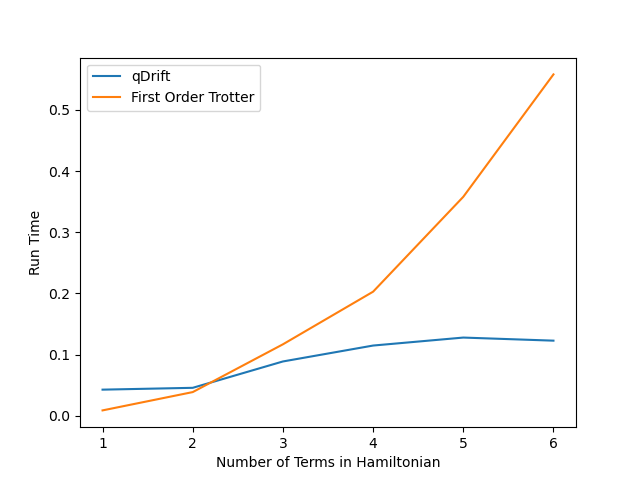
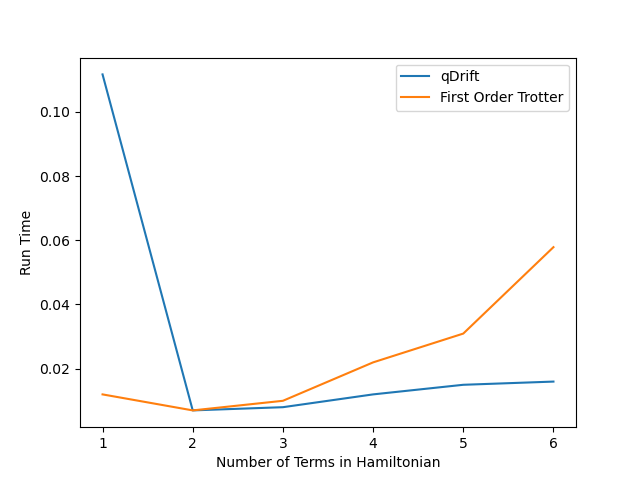
Added some more graphs and documentation

diff --git a/host.py b/host.py
@@ -3,6 +3,7 @@ import numpy as np
 import random
 import math
 import time
+import sys
 import matplotlib.pyplot as plt
 from Operations import sim_ham
 
@@ -79,14 +80,22 @@ H2Terms = [
             [0, 0], [3, 0], [0, 3], [3, 3], [2, 2], [1, 1]
         ]
 
+
+
 # Implementation of qDRIFT protocal to contruct simulation circuit from Campbell paper        
 def qDrift(bond_ind, sim_time, e_prec, num_terms = 6):
+
+    # Aquiring Hamiltonian coefficients for given bond_length
     H_coeffs = H2Coeff[bond_ind].copy()
     H_coeffs.insert(0, H2IdentityCoeff[bond_ind])
     H_coeffs = H_coeffs[0:num_terms]
-    coeff_sum = np.sum(np.abs(H_coeffs))
 
+    #Calculating time step to achieve desired precision
+    coeff_sum = np.sum(np.abs(H_coeffs))
     N = np.ceil((2 * (coeff_sum ** 2) * (sim_time**2))/e_prec)
+
+    # Creating list of gate indicies and respective gate strength in the order
+    # they are to be applied in q#
     V = []
     H_probs = np.abs(np.array(H_coeffs)/coeff_sum)
     for _ in range(int(N)):
@@ -96,74 +105,190 @@ def qDrift(bond_ind, sim_time, e_prec, num_terms = 6):
 
 # Implementation of First-Order Trotter-Suzuki compilation of simulation circuit
 def first_order_trot_suzuki(bond_ind, sim_time, e_prec, num_terms = 6):
+
+    # Aquiring Hamiltonian coefficients for given bond_length
     H_coeffs = H2Coeff[bond_ind].copy()
     H_coeffs.insert(0, H2IdentityCoeff[bond_ind])
     H_coeffs = H_coeffs[:num_terms]
 
+    #Calculating time_step to achieve desired precision
     m_lambda = np.max(np.abs(H_coeffs))
     r = np.ceil((num_terms**2 * m_lambda**2 * sim_time**2)/(2*e_prec))
     r = int(r)
+
+    # Creating list of gate indicies and respective gate strength in the order
+    # they are to be applied in q#
     V = []
     for _ in range(r):
         for i in range(num_terms):
             V.append((i, H_coeffs[i]))
     return (V, r)
 
-# Simulation Parameters
-sim_time = 1
-bond_idx = 2
+arg_list = sys.argv[1:]
 
-# Lists to hold simulation data
-log_e_dom = []
-trot_times = []
-rand_times = []
+if len(arg_list) < 1:
+    print("Usage: host.py [Test #]")
 
-# Running Simulation with both Trotter and qDrift for various levels of precision
-for i in np.arange(0, 2, .05):
-    e_prec = 10.0**(-1*i)
-    rand_start = time.time()
-    V, r = qDrift(bond_idx, sim_time, e_prec)
-    sim_ham.simulate(ham_idx_strength = V, step_int = r, sim_time = 1.0)
-    rand_end = time.time()
-    trot_start = time.time()
-    V, r = first_order_trot_suzuki(bond_idx, sim_time, e_prec)
-    sim_ham.simulate(ham_idx_strength = V, step_int = r, sim_time = 1.0)
-    trot_end = time.time()
-    log_e_dom.append(i)
-    trot_times.append(trot_end-trot_start)
-    rand_times.append(rand_end-rand_start)
+elif int(arg_list[0]) == 0:
+    # Simulation Parameters
+    sim_time = 1
+    bond_idx = random.choice(range(len(H2Coeff)))
 
-plt.plot(log_e_dom, rand_times, label='qDrift')
-plt.plot(log_e_dom, trot_times, label='First Order Trotter')
-plt.xlabel("-Log10 Precision")
-plt.ylabel("Run Time")
-plt.legend()
-plt.savefig("e_precision_comp.png")
-plt.show()
+    # Domain of Log precision values to use
+    log_e_dom = np.arange(0, 2, .05)
+
+    # Lists to hold simulation time data
+    trot_times = []
+    rand_times = []
+
+    # List to hold number of gates used
+    trot_gates = []
+    qdrift_gates = []
+
+    # Running Simulation with both Trotter and qDrift for various levels of precision
+    # and recording time it takes each protocal to run
+    for i in log_e_dom:
+        e_prec = 10.0**(-1*i)
+        rand_start = time.time()
+        V, r = qDrift(bond_idx, sim_time, e_prec)
+        sim_ham.simulate(ham_idx_strength = V, step_int = r, sim_time = 1.0)
+        rand_end = time.time()
+        qdrift_gates.append(len(V))
+        trot_start = time.time()
+        V, r = first_order_trot_suzuki(bond_idx, sim_time, e_prec)
+        sim_ham.simulate(ham_idx_strength = V, step_int = r, sim_time = 1.0)
+        trot_end = time.time()
+        trot_gates.append(len(V))
+        trot_times.append(trot_end-trot_start)
+        rand_times.append(rand_end-rand_start)
+
+    # Plotting result of run time for each protocal against the precision value used
+    # in that run
+    plt.plot(log_e_dom, rand_times, label='qDrift')
+    plt.plot(log_e_dom, trot_times, label='First Order Trotter')
+    plt.xlabel("-Log10 Precision")
+    plt.ylabel("Number of Gates")
+    plt.title("Precision Comparison (time)")
+    plt.legend()
+    plt.savefig("e_precision_time_comp.png")
+    plt.show()
+
+    # Plotting result of run time for each protocal against the precision value used
+    # in that run
+    plt.plot(log_e_dom, qdrift_gates, label='qDrift')
+    plt.plot(log_e_dom, trot_gates, label='First Order Trotter')
+    plt.xlabel("-Log10 Precision")
+    plt.ylabel("Number of Gates")
+    plt.title("Precision Comparison (gates)")
+    plt.legend()
+    plt.savefig("e_precision_gates_comp.png")
+    plt.show()
+
+elif int(arg_list[0]) == 1:
+    # Simulation Parameters
+    sim_time = 1
+    bond_idx = random.choice(range(len(H2Coeff)))
+
+    # Domain of number of terms in hamiltonian to use
+    num_terms_dom = [1,2,3,4,5,6]
+
+    # Lists to hold simulation time data
+    trot_times = []
+    rand_times = []
+
+    # List to hold number of gates used
+    trot_gates = []
+    qdrift_gates = []
+
+    # Running Simulation with both Trotter and qDrift for various numbers of terms in Hamiltonian
+    # and recording the time it takes each protocal to run
+    for i in num_terms_dom:
+        e_prec = 0.1
+        rand_start = time.time()
+        V, r = qDrift(bond_idx, sim_time, e_prec, num_terms=i)
+        sim_ham.simulate(ham_idx_strength = V, step_int = r, sim_time = 1.0)
+        rand_end = time.time()
+        qdrift_gates.append(len(V))
+        trot_start = time.time()
+        V, r = first_order_trot_suzuki(bond_idx, sim_time, e_prec, num_terms=i)
+        sim_ham.simulate(ham_idx_strength = V, step_int = r, sim_time = 1.0)
+        trot_end = time.time()
+        trot_gates.append(len(V))
+        trot_times.append(trot_end-trot_start)
+        rand_times.append(rand_end-rand_start)
 
 
-num_terms_dom = [1,2,3,4,5,6]
-trot_times = []
-rand_times = []
+    # Plotting result of run time for each protocal against the number of terms used
+    # in that run
+    plt.plot(num_terms_dom, rand_times, label='qDrift')
+    plt.plot(num_terms_dom, trot_times, label='First Order Trotter')
+    plt.xlabel("Number of Terms in Hamiltonian")
+    plt.ylabel("Run Time")
+    plt.title("Term Number Comparison (time)")
+    plt.legend()
+    plt.savefig("num_terms_time_comp.png")
+    plt.show()
 
-# Running Simulation with both Trotter and qDrift for various numbers of terms in Hamiltonian
-for i in num_terms_dom:
+    plt.plot(num_terms_dom, qdrift_gates, label='qDrift')
+    plt.plot(num_terms_dom, trot_gates, label='First Order Trotter')
+    plt.xlabel("Number of Terms in Hamiltonian")
+    plt.ylabel("Number of Gates")
+    plt.title("Term Number Comparison (gates)")
+    plt.legend()
+    plt.savefig("num_terms_gates_comp.png")
+    plt.show()
+
+elif int(arg_list[0]) == 2:
+    # Simulation Parameters
+    bond_idx = random.choice(range(len(H2Coeff)))
     e_prec = 0.1
-    rand_start = time.time()
-    V, r = qDrift(bond_idx, sim_time, e_prec, num_terms=i)
-    sim_ham.simulate(ham_idx_strength = V, step_int = r, sim_time = 1.0)
-    rand_end = time.time()
-    trot_start = time.time()
-    V, r = first_order_trot_suzuki(bond_idx, sim_time, e_prec, num_terms=i)
-    sim_ham.simulate(ham_idx_strength = V, step_int = r, sim_time = 1.0)
-    trot_end = time.time()
-    trot_times.append(trot_end-trot_start)
-    rand_times.append(rand_end-rand_start)
 
-plt.plot(num_terms_dom, rand_times, label='qDrift')
-plt.plot(num_terms_dom, trot_times, label='First Order Trotter')
-plt.xlabel("Number of Terms in Hamiltonian")
-plt.ylabel("Run Time")
-plt.legend()
-plt.savefig("num_terms_comp.png")
-plt.show()
+    # Domain of number of terms in hamiltonian to use
+    sim_times = np.linspace(0, 2, 100)
+
+    # Lists to hold simulation time data
+    trot_times = []
+    rand_times = []
+
+    # List to hold number of gates used
+    trot_gates = []
+    qdrift_gates = []
+
+    # Running Simulation with both Trotter and qDrift for various numbers of terms in Hamiltonian
+    # and recording the time it takes each protocal to run
+    for i in sim_times:
+        rand_start = time.time()
+        V, r = qDrift(bond_idx, i, e_prec)
+        sim_ham.simulate(ham_idx_strength = V, step_int = r, sim_time = float(i))
+        rand_end = time.time()
+        trot_start = time.time()
+        qdrift_gates.append(len(V))
+        V, r = first_order_trot_suzuki(bond_idx, i, e_prec)
+        sim_ham.simulate(ham_idx_strength = V, step_int = r, sim_time = float(i))
+        trot_end = time.time()
+        trot_gates.append(len(V))
+        trot_times.append(trot_end-trot_start)
+        rand_times.append(rand_end-rand_start)
+
+
+    # Plotting result of run time for each protocal against the precision value used
+    # in that run
+    plt.plot(sim_times, rand_times, label='qDrift')
+    plt.plot(sim_times, trot_times, label='First Order Trotter')
+    plt.xlabel("Simulation Time")
+    plt.ylabel("Run Time")
+    plt.title("Simulation Time Comparison (time)")
+    plt.legend()
+    plt.savefig("sim_time_time_comp.png")
+    plt.show()
+
+    # Plotting result of run time for each protocal against the precision value used
+    # in that run
+    plt.plot(sim_times, qdrift_gates, label='qDrift')
+    plt.plot(sim_times, trot_gates, label='First Order Trotter')
+    plt.xlabel("Simulation Time")
+    plt.ylabel("Number of Gates")
+    plt.title("Simulation Time Comparison (gates)")
+    plt.legend()
+    plt.savefig("sim_time_gates_comp.png")
+    plt.show()
